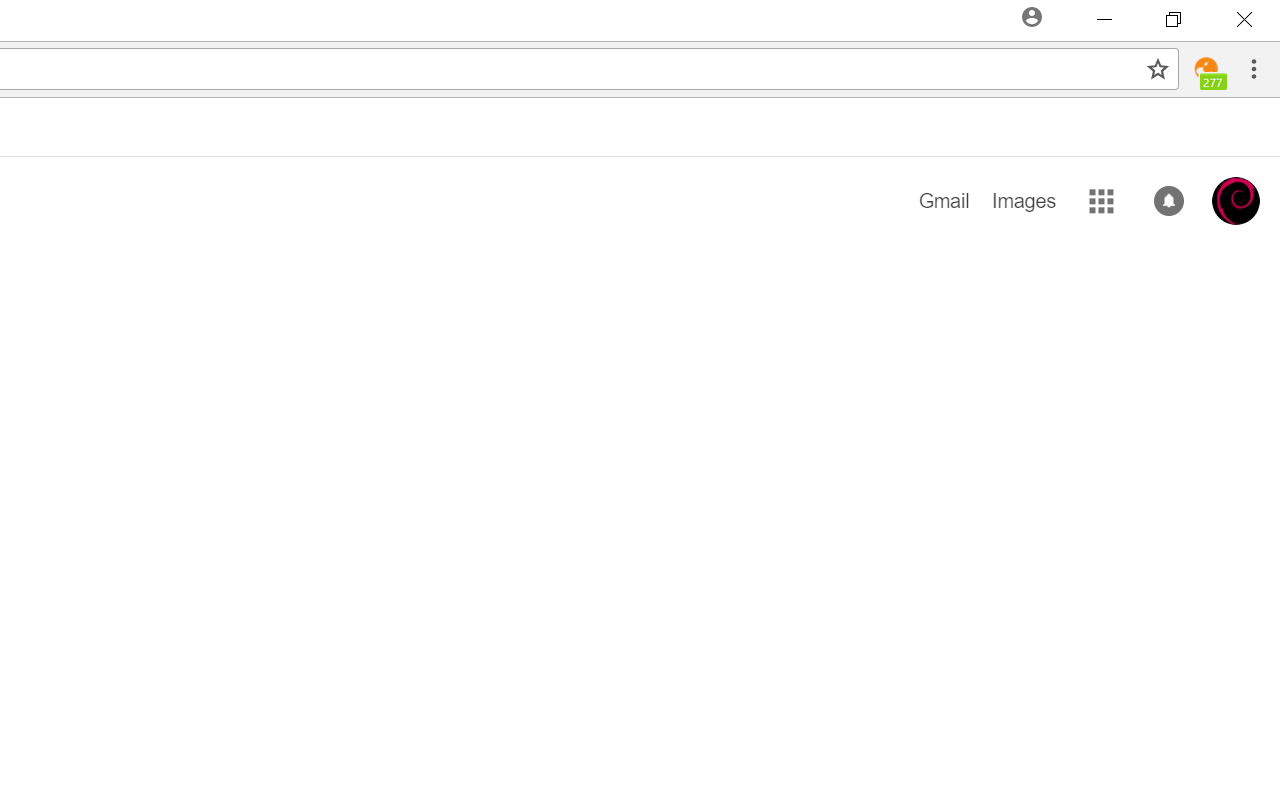
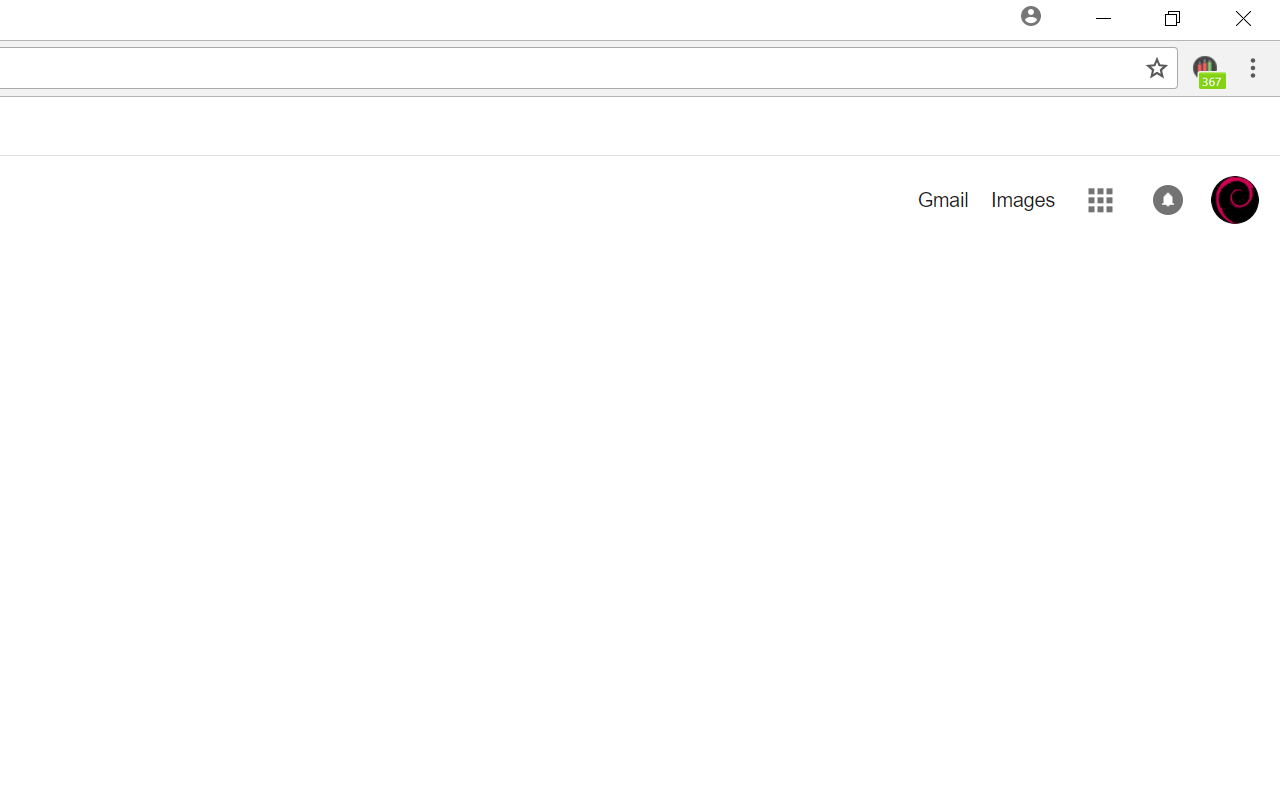
Version 0.0.6

diff --git a/src/options/options.html b/src/options/options.html
@@ -48,6 +48,63 @@
 					</select>
 				</div>
 			</div>
+			<div class="row">
+				<div class="price-title-container">
+					<label for="cryptoCurrency">Crypto Currency</label>
+					<select name="cryptoCurrency" id="crypto_currency" class="select-crypto-currency">
+						<option selected="selected" value="bitcoin">Bitcoin</option>
+						<option value="ethereum">Ethereum</option>
+						<option value="bitcoin-cash">Bitcoin Cash</option>
+						<option value="ripple">Ripple</option>
+						<option value="dash">Dash</option>
+						<option disabled="disabled" value="">--</option>
+						<option value="litecoin">Litecoin</option>
+						<option value="iota">IOTA</option>
+						<option value="monero">Monero</option>
+						<option value="neo">NEO</option>
+						<option value="nem">NEM</option>
+						<option value="ethereum-classic">Ethereum Classic</option>
+						<option value="lisk">Lisk</option>
+						<option value="qtum">Qtum</option>
+						<option value="eos">EOS</option>
+						<option value="zcash">Zcash</option>
+						<option value="omisego">OmiseGO</option>
+						<option value="cardano">Cardano</option>
+						<option value="hshare">Hshare</option>
+						<option value="stellar">Stellar Lumens</option>
+						<option value="tether">Tether</option>
+						<option value="bitconnect">BitConnect</option>
+						<option value="populous">Populous</option>
+						<option value="stratis">Stratis</option>
+						<option value="bitshares">BitShares</option>
+						<option value="ark">Ark</option>
+						<option value="ardor">Ardor</option>
+						<option value="augur">Augur</option>
+						<option value="power-ledger">Power Ledger</option>
+						<option value="komodo">Komodo</option>
+						<option value="steem">Steem</option>
+						<option value="decred">Decred</option>
+						<option value="tenx">TenX</option>
+						<option value="monacoin">MonaCoin</option>
+						<option value="factom">Factom</option>
+						<option value="maidsafecoin">MaidSafeCoin</option>
+						<option value="gas">Gas</option>
+						<option value="golem-network-tokens">Golem</option>
+						<option value="veritaseum">Veritaseum</option>
+						<option value="salt">SALT</option>
+						<option value="raiden-network-token">Raiden Network Token</option>
+						<option value="dogecoin">Dogecoin</option>
+						<option value="pivx">PIVX</option>
+						<option value="vertcoin">Vertcoin</option>
+						<option value="siacoin">Siacoin</option>
+						<option value="aeternity">Aeternity</option>
+						<option value="byteball">Byteball Bytes</option>
+						<option value="basic-attention-token">Basic Attention Token</option>
+						<option value="binance-coin">Binance Coin</option>
+						<option value="tron">TRON</option>
+					</select>
+				</div>
+			</div>
 		</div>
 	</div>
     <div class="row marketing">

diff --git a/src/options/options.js b/src/options/options.js
@@ -1,6 +1,7 @@
 (function() {
 	var defaultVals = {
-	  'currency': 'USD',
+		'currency': 'USD',
+		'crypto_currency': 'bitcoin',
 	  'symbol': '$',
 	  'symbol_prefix': true,
 	};
@@ -9,28 +10,31 @@
   
 	var Options = {
 	  init: function () {
-		this.resetConfigVars();
-		this.initializeContent();
-		this.registerListeners();
+			this.resetConfigVars();
+			this.initializeContent();
+			this.registerListeners();
 	  },
   
 	  initializeContent: function () {
-		$('#user_currency').val(config.currency);
+			$('#user_currency').val(config.currency);
+			$('#crypto_currency').val(config.crypto_currency);
 	  },
   
 	  registerListeners: function () {
-		var self = this;
-		$('#btnSaveOptions').on('click', function() {
-		  $(this).find('#user_currency').val();
-		  localStorage['currency'] = $('#user_currency').val();
-		  self.resetConfigVars();
+			var self = this;
+			$('#btnSaveOptions').on('click', function() {
+				$(this).find('#user_currency').val();
+				$(this).find('#crypto_currency').val();
+				localStorage['currency'] = $('#user_currency').val();
+				localStorage['crypto_currency'] = $('#crypto_currency').val();
+				self.resetConfigVars();
 		});
 	  },
   
 	  resetConfigVars: function () {
-		for (var key in defaultVals) {
-		  config[key] = localStorage[key] || defaultVals[key];
-		}
+			for (var key in defaultVals) {
+				config[key] = localStorage[key] || defaultVals[key];
+			}
 	  },
 	};
   

diff --git a/src/bg/background.js b/src/bg/background.js
@@ -3,7 +3,8 @@
 		'refresh_time': 20000,
 		'green_color': "#7ED321",
 		'red_color': "#D0021B",
-		'currency': "USD"
+		'fiat_currency': "USD",
+		'crypto_currency': "bitcoin",
 	};
 
 	var config = {};
@@ -40,7 +41,7 @@
 					}
 				}
 	
-				var url = "https://api.coinmarketcap.com/v1/ticker/bitconnect/?convert=" + config.currency;
+				var url = "https://api.coinmarketcap.com/v1/ticker/" + config.crypto_currency + "/?convert=" + config.fiat_currency;
 
 				request.open("GET", url, true);
 				request.send(null);
@@ -52,7 +53,7 @@
 				setBadge("---");
 			} else {
 				var results = JSON.parse(response)[0];
-				var current_currency = "price_" + config.currency.toLowerCase();
+				var current_currency = "price_" + config.fiat_currency.toLowerCase();
 				var current_rate = Math.round(results[current_currency]).toString();
 				var percent_change = (results["percent_change_1h"]).toString();
 				BitConnect.setBadge(current_rate, percent_change);

diff --git a/src/options/options.css b/src/options/options.css
@@ -1,8 +1,8 @@
 body {
   font-family: 'Ubuntu', sans-serif;
-  background-color: #333;
+  background-color: #444;
   color: #FFF;
-  border: 2px solid #FA890F;
+  border: 2px solid #bebdbb;
   position: fixed;
   top: 15%;
   left: 50%;
@@ -33,10 +33,14 @@ body {
   padding-top: 2px;
   }
 
+  .price-title-container {
+    font-size: 20px;
+  }
+
   .btn-save-options {
-  background-color: #333;
+  background-color: #444;
   color: #FFF;
-  border: 1px solid #FA890F;
+  border: 1px solid #bebdbb;
   padding: 10px 20px;
   margin-left: 190px;
   text-align: center;
@@ -46,10 +50,16 @@ body {
   }
 
   .btn-save-options:hover {
-  background-color: #FA890F;
+  background-color: #7dc272;
   color: #FFF;
   }
 
   .select-currency {
-    margin-left: 50px;
+    margin-left: 106px;
+  }
+
+  .select-crypto-currency {
+    margin-top: 15px;
+    margin-left: 42px;
+    padding-right: 49px;
   }

diff --git a/src/popup/popup.css b/src/popup/popup.css
@@ -1,15 +1,15 @@
 body {
 	font-family: 'Ubuntu', sans-serif;
-	background-color: #333;
+	background-color: #444;
 	color: #FFF;
-	border: 2px solid #FA890F;
+	border: 2px solid #bebdbb;
 	margin: 12px;
 	width: 418px;
 	height: 290px;
   }
   
   .container {
-	margin: 44px 44px 16px;
+	margin: 24px 44px 16px;
   }
   
   .title {
@@ -23,7 +23,12 @@ body {
 	font-size: 10px;
 	font-weight: normal;
 	font-style: italic;
-  }
+	}
+	
+	.crypto-name {
+	font-size: 20px;
+	font-weight: normal;
+	}
   
   .price-container {
 	padding-top: 2px;

diff --git a/src/popup/popup.js b/src/popup/popup.js
@@ -1,6 +1,7 @@
 (function() {
 	var defaultVals = {
 		'currency': 'USD',
+		'crypto_currency': 'bitcoin',
 		'symbol': '$',
 		'symbol_prefix': true,
 		'green_color': '#7ED321',
@@ -80,7 +81,7 @@
 					}
 				}
 	
-				var url = "https://api.coinmarketcap.com/v1/ticker/bitconnect/?convert=" + config.currency;
+				var url = "https://api.coinmarketcap.com/v1/ticker/" + config.crypto_currency + "/?convert=" + config.currency;
 
 				request.open("GET", url, true);
 				request.send(null);

diff --git a/src/popup/popup.html b/src/popup/popup.html
@@ -6,7 +6,7 @@
 </head>
 <body>
 	<div class="container">
-		<h1 class="title">BCC Price</h1>
+		<h1 class="title">Crypto Tracker</h1>
 		<h4 class="subtitle">Powered by CoinMarketCap</h4>
 		<div class="price-container">
 			<div class="row">

diff --git a/README.md b/README.md
@@ -1,5 +1,5 @@
-## BitConnect Coin
-A chrome extension showing the current BitConnect Coin price from CoinMarketCap on the badge. Includes a popup for more detailed information.
+## Crypto Tracker
+A chrome extension showing the current price on your desired crypto currency from CoinMarketCap on the badge. Includes a popup with more detailed information. As well as options where you can choose your desired crypto currency and it's going rate.
 
 ### Chrome Web Store
 [Chrome Chrome Extensions](https://chrome.google.com/webstore/detail/bcc-price-bitconnect-coin/oclnggnhbahdbgjoldcboibocfbligpi)
@@ -9,6 +9,10 @@ A chrome extension showing the current BitConnect Coin price from CoinMarketCap 
 ![Badge Screenshot](screenshots/screenshot-badge.png)
 ![Popup Screenshot](screenshots/screenshot-popup.png)
 
+### New in 0.0.6::
+* Major redesign of the extension. Added a plethora of other cryptocurrencies.
+* New icon
+* New color scheme
+
 ### Roadmap:
-- v0.0.5 - Add more currencies
-- v0.0.6 - Add percentage rates from lending
+- v0.0.7 - Desktop alerts when the price hits a certain threshold
